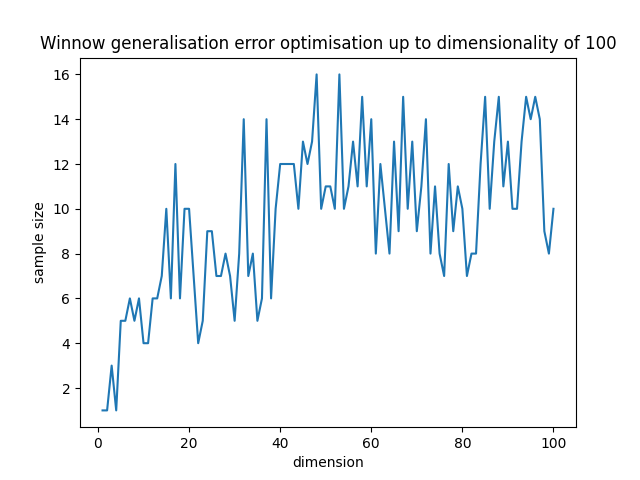
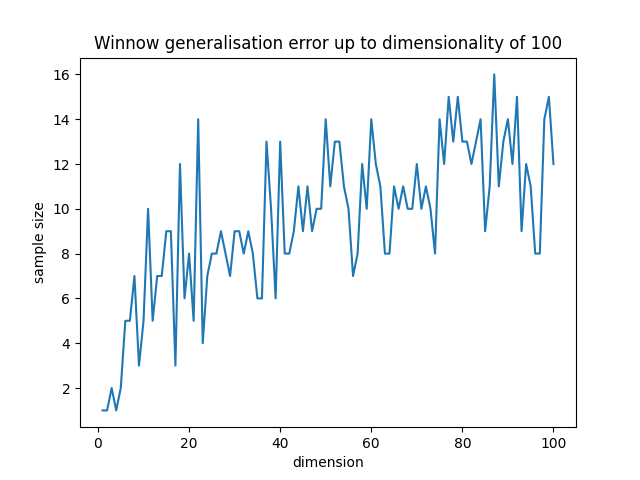
multiprocessing and vectorised code for 1nn

Changed region(s): [[0.1562, 0.1562, 0.875, 0.8438], [0.0625, 0.0625, 0.9688, 0.125]]

diff --git a/part_3_1nn_vectorised.py b/part_3_1nn_vectorised.py
@@ -1,0 +1,92 @@
+import numpy as np
+import part_3_perceptron as perceptron
+import matplotlib.pyplot as plt
+from tqdm import tqdm
+import os
+
+np.random.seed(0)
+
+
+def predict(sample, dataset):
+    neighbour = nearest_neighbour(sample, dataset)
+    # neighbour = dataset[np.argmin(np.linalg.norm(sample[:-1] - dataset[:, :-1], axis=1))]
+    label = neighbour[-1]
+    return label
+
+
+def calc_distance(x1, x2):
+    dist = 0
+    for i in range(len(x1)):
+        dist += np.square(x1[i] - x2[i])
+    return np.sqrt(dist)
+
+
+def calc_distance_array(x1, x2):
+    dist = np.sum(np.square(x1 - x2))
+    return np.sqrt(dist)
+
+
+def nearest_neighbour(sample, dataset):
+    distances = []
+    for point in dataset:
+        temp_dist = calc_distance(sample[:-1], point[:-1])
+        distances.append((point, temp_dist))
+    distances.sort(key=lambda x: x[1])
+    return distances[0][0]
+
+
+def nearest_neighbour_vectorized(sample, dataset):
+    # distances_y = np.linalg.norm(sample[:-1] - dataset[:, :-1], axis=1)
+    # min_index = np.argmin(distances_y)
+    # to_return = dataset[min_index]  # debugging purposes
+    # return to_return
+    return dataset[np.argmin(np.linalg.norm(sample[:-1] - dataset[:, :-1], axis=1))]
+
+
+def concurrent_optimised_sample_complexity(dimension):
+    dimension_test = tuple()
+    generalisation_error = 1
+    sample_count = 1
+    while generalisation_error >= 0.1:
+        training_dataset, testing_dataset = perceptron.setup(dimension, sample_count)
+        mistakes = 0
+        for i in range(len(testing_dataset)):
+            # prediction = training_dataset[np.argmin(np.linalg.norm(testing_dataset[i][:-1] - training_dataset[:, :-1],
+            #                                                        axis=1))][-1]
+            # uncomment for performance
+            prediction = predict(testing_dataset[i], training_dataset)
+            if prediction != testing_dataset[i][-1]:
+                mistakes += 1
+        generalisation_error = mistakes / len(testing_dataset)
+        dimension_test = (dimension, sample_count, generalisation_error)
+        sample_count += 5
+    optimisation.append(dimension_test)
+
+
+if __name__ == '__main__':
+    if not os.path.exists('plots'):
+        os.makedirs('plots')
+
+    complexity = 20
+    optimisation = list(tuple())
+    p_bar = tqdm(smoothing=1)
+    # with futures.ThreadPoolExecutor(max_workers=1) as executor:
+    #     futures_to_jobs = {executor.submit(concurrent_optimised_sample_complexity, job): job for job in
+    #                        range(complexity + 1)}
+    #     for _ in futures.as_completed(futures_to_jobs):
+    #         p_bar.update(1)
+    #         p_bar.refresh()
+    for job in range(1, complexity + 1):
+        concurrent_optimised_sample_complexity(job)
+        p_bar.update(1)
+
+    optimisation.sort(key=lambda x: x[0])
+    print(optimisation)
+
+    n_values = [n[0] for n in optimisation]
+    m_values = [m[1] for m in optimisation]
+    plt.plot(n_values, m_values)
+    plt.title(f"1-NN generalisation error optimisation up to dimensionality of {str(complexity)}")
+    plt.xlabel("dimension")
+    plt.ylabel("sample size")
+    plt.savefig(f'./plots/part3_a_1nn_{str(complexity)}_vectorised.png')

diff --git a/part_3_1nn_multiprocess.py b/part_3_1nn_multiprocess.py
@@ -1,7 +1,8 @@
 import numpy as np
 import part_3_perceptron as perceptron
 import matplotlib.pyplot as plt
-from concurrent import futures
+from multiprocessing import Process, Queue
+import multiprocessing as mp
 from tqdm import tqdm
 import os
 
@@ -28,12 +29,12 @@ def calc_distance_array_2(x1, x2):
 def nearest_neighbour(sample, dataset):
     distances = []
     for point in dataset:
-        temp_dist = calc_distance(sample[:-1], point[:-1])
+        temp_dist = calc_distance_array_2(sample[:-1], point[:-1])
         distances.append((point, temp_dist))
     distances.sort(key=lambda x:x[1])
     return distances[0][0]
 
-def concurrent_optimised_sample_complexity(dimension):
+def concurrent_optimised_sample_complexity(queue, dimension):
     dimension_test = tuple()
     generalisation_error = 1
     sample_count = 1
@@ -47,20 +48,37 @@ def concurrent_optimised_sample_complexity(dimension):
         generalisation_error = mistakes/len(testing_dataset)
         dimension_test = (dimension, sample_count, generalisation_error)
         sample_count += 5
-    optimisation.append(dimension_test)
+    queue.put(dimension_test)
+
 
 if __name__ == '__main__':
     if not os.path.exists('plots'):
         os.makedirs('plots')
 
-    complexity = 5
+    complexity = 20
     optimisation = list(tuple())
     p_bar = tqdm(complexity)
-    with futures.ThreadPoolExecutor(max_workers=12) as executor:
-        futures_to_jobs = {executor.submit(concurrent_optimised_sample_complexity, job): job for job in
-                           range(complexity + 1)}
-        for _ in futures.as_completed(futures_to_jobs):
-            p_bar.update(1)
+
+    # pool = mp.Pool(mp.cpu_count())
+    # pool.map(concurrent_optimised_sample_complexity, range(1, complexity+1))
+
+    queue = Queue()
+    processes = [Process(target=concurrent_optimised_sample_complexity, args=(queue, x)) for x in range(1, complexity+1)]
+
+    for p in processes:
+        p.start()
+    for p in processes:
+        p.join()
+        p_bar.update(1)
+
+    optimisation = [queue.get() for p in processes]
+
+    # with futures.ThreadPoolExecutor(max_workers=12) as executor:
+    #     futures_to_jobs = {executor.submit(concurrent_optimised_sample_complexity, job): job for job in
+    #                        range(complexity + 1)}
+    #     for _ in futures.as_completed(futures_to_jobs):
+    #         p_bar.update(1)
+    #         p_bar.refresh()
 
     optimisation.sort(key=lambda x: x[0])
     print(optimisation)
@@ -71,7 +89,7 @@ if __name__ == '__main__':
     plt.title(f"1-NN generalisation error up to dimensionality of {str(complexity)}")
     plt.xlabel("dimension")
     plt.ylabel("sample size")
-    plt.savefig(f'./plots/part3_a_1nn_{str(complexity)}.png')
+    plt.savefig(f'./plots/part3_a_1nn_{str(complexity)}_multiprocess.png')
 
     # n = 4
     # training_samples = 10

diff --git a/part_3_winnow.py b/part_3_winnow.py
@@ -76,7 +76,7 @@ if __name__ == '__main__':
 	if not os.path.exists('plots'):
 		os.makedirs('plots')
 
-	complexity = 500
+	complexity = 50
 	optimisation = list(tuple())
 	p_bar = tqdm(complexity)
 	with futures.ThreadPoolExecutor(max_workers=12) as executor:
@@ -90,7 +90,7 @@ if __name__ == '__main__':
 	n_values = [n[0] for n in optimisation]
 	m_values = [m[1] for m in optimisation]
 	plt.plot(n_values, m_values)
-	plt.title(f"Winnow generalisation error optimisation up to dimensionality of {str(complexity)}")
+	plt.title(f"Winnow generalisation error up to dimensionality of {str(complexity)}")
 	plt.xlabel("dimension")
 	plt.ylabel("sample size")
 	plt.savefig(f'./plots/part3_a_winnow_{str(complexity)}.png')

diff --git a/part_3_least_squared_error.py b/part_3_least_squared_error.py
@@ -35,7 +35,7 @@ if __name__ == '__main__':
     if not os.path.exists('plots'):
         os.makedirs('plots')
 
-    complexity = 50
+    complexity = 20
     optimisation = list(tuple())
     p_bar = tqdm(complexity)
     with futures.ThreadPoolExecutor(max_workers=12) as executor:
